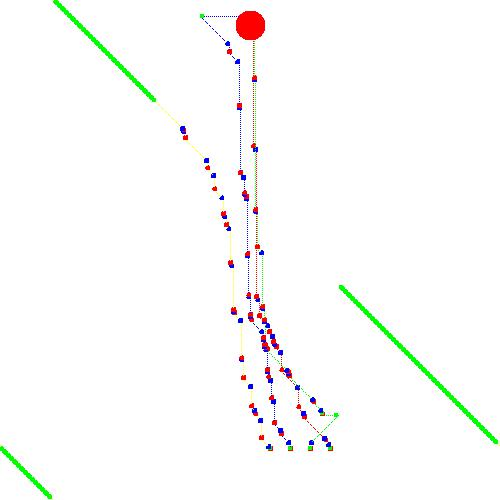
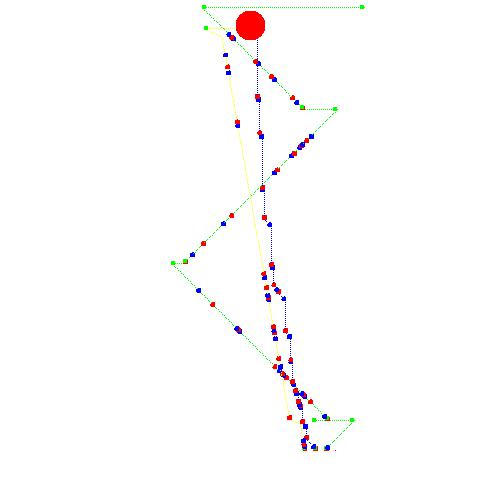
The modular version of the kalman filtering and graphics does not yet work fully

diff --git a/moth/simulation.py b/moth/simulation.py
@@ -1,0 +1,130 @@
+# -*- coding: utf-8 -*-
+"""
+Demonstrations of how to set up models with graphical displays produced using
+matplotlib functions.
+"""
+
+from __future__ import division
+
+__authors__ = 'Noam Benelli'
+
+
+import sys
+import pylab
+import matplotlib.pyplot as plt
+import matplotlib.cm as cm
+import matplotlib.colors
+import numpy as np
+import models
+import processors
+import scipy.misc
+from demos import _close_handle,_set_up_figure,_simulation_loop
+from shapes import circle,square , cx ,cy
+
+
+  
+def moth_simulation(num_it=10, x_start = 450, y_start = 320, dt=0.01, t_max = 0.1, draw_iter_interval=1):
+    """
+    a copy of the concetration_array_demo with the moth actions integrated
+    """
+    #define simulation region
+    wind_region = models.Rectangle(0., -2., 10., 2.)
+    sim_region = models.Rectangle(0., -1., 2., 1.)
+    #establish the dictionaries and lists that will be used
+    moth_dict = {}
+    list_dict = {}
+    array_dict = {}
+    times_list = [] # a list of the time it took different moths to reach the goal, for hist purposes
+    del_list = [] # a list of the moth indices that finished the track and were deleted 
+
+    #number of iterations
+    dist_it=10 #distance on y axis between starting points on different iterations
+    for i in range(num_it):
+        moth_dict["moth{0}".format(i)] = models.moth_modular(sim_region, x_start, y_start-i*dist_it)
+        list_dict["moth_trajectory_list{0}".format(i)] = []
+        array_dict["trajectory_array{0}".format(i)] = np.zeros((500,500))
+        
+    # set up wind model
+    wind_model = models.WindModel(wind_region, 21., 11.,noise_gain=0, u_av=1.,)
+    # set up plume model
+    plume_model = models.PlumeModel(sim_region, (0.1, 0., 0.), wind_model,
+                                    centre_rel_diff_scale=1.5,
+                                    puff_release_rate=500,
+                                    puff_init_rad=0.001)
+
+    #set concetration array generator
+    array_gen = processors.ConcentrationArrayGenerator(sim_region, 0.01, 500,
+                                                       500, 1.)
+    # display initial concentration field as image
+    conc_array = array_gen.generate_single_array(plume_model.puff_array)
+    
+    # define update and draw functions
+    def update_func(dt, t):
+        wind_model.update(dt)
+        plume_model.update(dt)
+        conc_array = array_gen.generate_single_array(plume_model.puff_array)
+        #update each individual moth
+        for i in range(num_it):
+            if i not in del_list:
+                vel_at_pos = wind_model.velocity_at_pos(moth_dict["moth{0}".format(i)].x,moth_dict["moth{0}".format(i)].y)
+                moth_dict["moth{0}".format(i)].update(conc_array,vel_at_pos,0.01)
+
+    #each of the moth lists appends the new position given by it's corresponding moth
+    def draw_func():
+        for i in range(num_it):
+            if i not in del_list:
+                moth_i = moth_dict["moth{0}".format(i)]
+                (x,y,T,odor,gamma,state) = (moth_i.x, moth_i.y, moth_i.T, moth_i.odor, moth_i.gamma, moth_i.state)
+                list_dict["moth_trajectory_list{0}".format(i)].append((x,y,T,odor,gamma,state))
+                if np.sqrt((x-25)**2+((y-250)**2))<15 :
+                    times_list.append(T)
+                    del moth_dict["moth{0}".format(i)]
+                    del_list.append(i)
+            
+    # start simulation loop
+    _simulation_loop(dt, t_max, 0, draw_iter_interval, update_func,
+                     draw_func)
+
+    """
+    after the simulation is done, list_dict is reedited to form diff_list_dict.
+    difference list dictionary is a dictionary containing lists, each list represents a diffrent moth
+    and each item in the list is a tuple of the form (x,y,T,odor found/odor lost/none, is turning/isn't turning)
+    """
+    diff_dict ={}
+    #this shamefuly large tree transcribes the lists to the lists accounting for the moments of finding and losing odor
+    #as well as counting when and where the moth decided to turn.
+    for i in range(num_it):
+        currentlist = list_dict["moth_trajectory_list{0}".format(i)]
+        diff_list = []
+        for j in range(len(currentlist)):
+                (x,y,T,odor,gamma,state) = currentlist[j] #odor and gamma will be rewritten
+                if j < 1: #first object on the list, nothing happens
+                    odor = None
+                    turning = False
+                else: #describe the conditions for odor and turning documantation separately
+                    if currentlist[j][3]==currentlist[j-1][3]:
+                        odor = None                    
+                    elif currentlist[j][3] == True and currentlist[j-1][3] == False:
+                        odor = 'odor found'
+                    else: #odor changed from True to false
+                        odor = 'odor lost'
+                    if currentlist[j][4]!=currentlist[j-1][4] or currentlist[j][5]!=currentlist[j-1][5]:
+                        turning = True
+                    else:
+                        turning = False
+                    
+                diff_list.append((x,y,T,odor,turning))
+        diff_dict["diff_list{0}".format(i)] = diff_list
+
+    #documantation:
+    #set up text file to recored different lists
+    file_name = "moth_trajectory" + "(" + str(x_start) + "," + str(y_start) + ")"
+    file = open(file_name + ".txt", 'w')
+    for i in range(num_it):
+        file.write("moth trajectory " + str(i))
+        file.write(str(diff_dict["diff_list{0}".format(i)])) 
+    file.close()
+
+      
+    return diff_dict
+

diff --git a/moth/kalman.py b/moth/kalman.py
@@ -1,0 +1,113 @@
+# -*- coding: utf-8 -*-
+"""
+Demonstrations of how to set up models with graphical displays produced using
+matplotlib functions.
+"""
+
+from __future__ import division
+
+__authors__ = 'Noam Benelli'
+
+
+import sys
+import pylab
+import matplotlib.pyplot as plt
+import matplotlib.cm as cm
+import matplotlib.colors
+import numpy as np
+import models
+import processors
+import scipy.misc
+from demos import _close_handle,_set_up_figure,_simulation_loop
+from shapes import circle,square , cx ,cy
+
+
+
+#Now we shall add the Kalman filter, based heavily on Greg Czerniak's implementation.
+class KalmanFilterLinear:
+  def __init__(self,_A, _B, _H, _x, _P, _Q, _R):
+    self.A = _A                      # State transition matrix.
+    self.B = _B                      # Control matrix.
+    self.H = _H                      # Observation matrix.
+    self.current_state_estimate = _x # Initial state estimate.
+    self.current_prob_estimate = _P  # Initial covariance estimate.
+    self.Q = _Q                      # Estimated error in process.
+    self.R = _R                      # Estimated error in measurements.
+  def GetCurrentState(self):
+    return self.current_state_estimate
+  def Step(self,control_vector,measurement_vector):
+    #---------------------------Prediction step-----------------------------
+    predicted_state_estimate = self.A * self.current_state_estimate + self.B * control_vector
+    predicted_prob_estimate = (self.A * self.current_prob_estimate) * np.transpose(self.A) + self.Q
+    #--------------------------Observation step-----------------------------
+    innovation = measurement_vector - self.H*predicted_state_estimate
+    innovation_covariance = self.H*predicted_prob_estimate*np.transpose(self.H) + self.R
+    #-----------------------------Update step-------------------------------
+    kalman_gain = predicted_prob_estimate * np.transpose(self.H) * np.linalg.inv(innovation_covariance)
+    self.current_state_estimate = predicted_state_estimate + kalman_gain * innovation
+    # We need the size of the matrix so we can make an identity matrix.
+    size = self.current_prob_estimate.shape[0]
+    # eye(n) = nxn identity matrix.
+    self.current_prob_estimate = (np.eye(size)-kalman_gain*self.H)*predicted_prob_estimate
+
+
+def accelration_constraint(ax,ay,a_max):
+  if ax > a_max:
+    ax = a_max
+  elif ax < -a_max:
+    ax = -a_max
+    
+  if ay > a_max:
+    ay = a_max
+  elif ay < -a_max:
+    ay = -a_max
+  return np.matrix([[ax],[ay]])
+  
+    
+def kalman_filter(diff_dict):
+    #implement the Kalman filter:
+
+    #first we calculate dt from the list
+    #(it's ugly but it's cleaner than taking it with the input)
+    dt=diff_dict["diff_list0"][1][2] - diff_dict["diff_list0"][0][2]
+    num_it = len(diff_dict)
+
+    #define the required matrices
+    state_transition = np.matrix([[1,dt,0,0],[0,1,0,0],[0,0,1,dt],[0,0,0,1]])
+    control_matrix = np.matrix([[(dt**2)/2,0],[0,(dt**2)/2],[dt,0],[0,dt]]) # acceleration constraint
+    a_max = 0.01 
+    control_vector = np.matrix([[0],[0],[0],[0]])
+    observation_matrix = np.eye(4)
+    initial_probability = np.eye(4)
+    process_covariance =0.0001*np.eye(4) #A crucial factor in this process
+    measurement_covariance = np.eye(4)*0.1 #also crucial
+    
+    #a dictionary of lists of the kalman corrections - (x,y) only.
+    kalman_dict = {}
+    #for each list in the list dictionary we will create a new kalman list 
+    for i in range(num_it):
+        kalman_dict["Kalman_list{0}".format(i)] = []   
+        #initiate Kalman filter with our specific parameters
+        initial_state = np.matrix([[diff_dict["diff_list{0}".format(i)][0][0]],[0],diff_dict["diff_list{0}".format(i)][0][1],[0]])#initiate for x start and y start     
+        kf = KalmanFilterLinear(state_transition, control_matrix, observation_matrix, initial_state, initial_probability, process_covariance, measurement_covariance)
+        vx,vy =0,0 #initial velocities
+        for j in range(1,len(diff_dict["diff_list{0}".format(i)])):
+            #There is no iteration for when j==0
+            x = diff_dict["diff_list{0}".format(i)][j][0]
+            y = diff_dict["diff_list{0}".format(i)][j][1]
+            x_minus_1 =diff_dict["diff_list{0}".format(i)][j-1][0]
+            y_minus_1 =diff_dict["diff_list{0}".format(i)][j-1][1]
+            vx_minus_1 = vx #this iterations vx_minus1 is the last iterations vx
+            vy_minus_1 = vy
+            vx = (x - x_minus_1)/dt
+            vy = (y - y_minus_1)/dt
+            kx = (kf.GetCurrentState()[0,0])
+            ky = (kf.GetCurrentState()[0,1]) #ky = (kf.GetCurrentState()[2,0])
+
+            #apply the accelaration constraint
+            ax=(vx-vx_minus_1)/dt
+            ay=(vy-vy_minus_1)/dt
+            control_vector = accelration_constraint(ax,ay,a_max)
+            kf.Step(control_vector,np.matrix([[x],[vx],[y],[vy]]))
+            kalman_dict["Kalman_list{0}".format(i)].append((kx,ky))
+    return kalman_dict

diff --git a/moth/moth_graphics.py b/moth/moth_graphics.py
@@ -1,0 +1,30 @@
+# -*- coding: utf-8 -*-
+from __future__ import division
+
+__authors__ = 'Noam Benelli'
+
+
+import sys
+import pylab
+from shapes import circle,square , cx ,cy
+
+   
+def plot(kalman_dict,num_it):    
+    #alternative graphic function - shows only kalman trajectories
+    color_wheel =['-b','-g','-c','-m','-y','-k']
+    for i in range(num_it): #present the different kalman trajectories
+      kzip = zip(*kalman_dict["Kalman_list{0}".format(i)])
+      kx,ky=kzip[0],kzip[1]
+      pylab.plot(kx,ky,color_wheel[i%6]) #choose a color from the color wheel for each trajectory
+      
+    pylab.plot(cx,cy,'-r')#add a circle for the odor source
+    pylab.ylim(0,500)
+    pylab.xlabel('X position')
+    pylab.ylabel('Y position')
+    pylab.title('competition between moths')
+    #pylab.legend(('calculated','kalman'))
+    pylab.legend(loc='upper left')  
+    pylab.show()
+    print "done"
+
+

diff --git a/moth/Moth- master.py b/moth/Moth- master.py
@@ -1,0 +1,14 @@
+from __future__ import division
+
+__authors__ = 'Noam Benelli'
+from simulation import moth_simulation
+from kalman import kalman_filter 
+from moth_graphics import plot
+
+
+num_it = 1#number of iteration
+diff_dict = moth_simulation(num_it)
+kalman_dict = kalman_filter(diff_dict)
+plot(kalman_dict,num_it)
+
+
